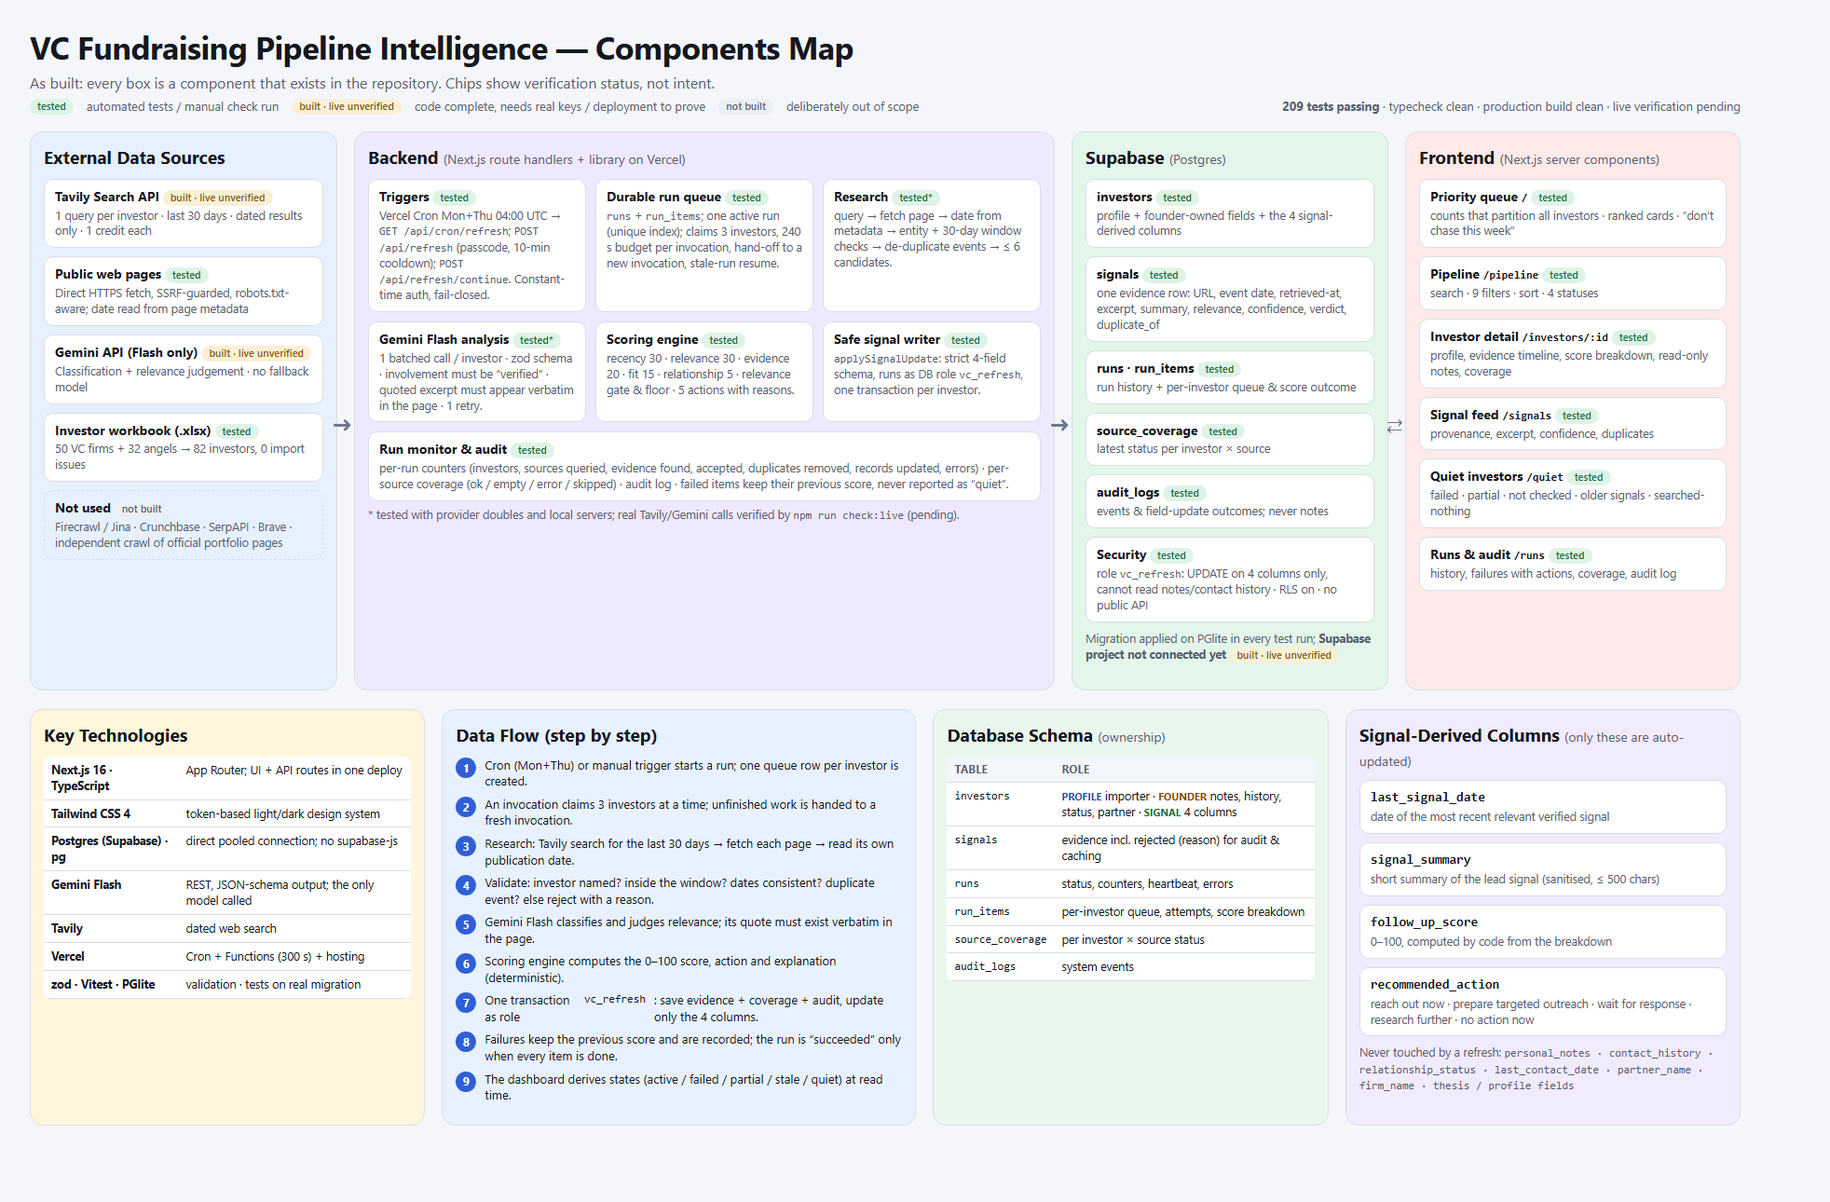
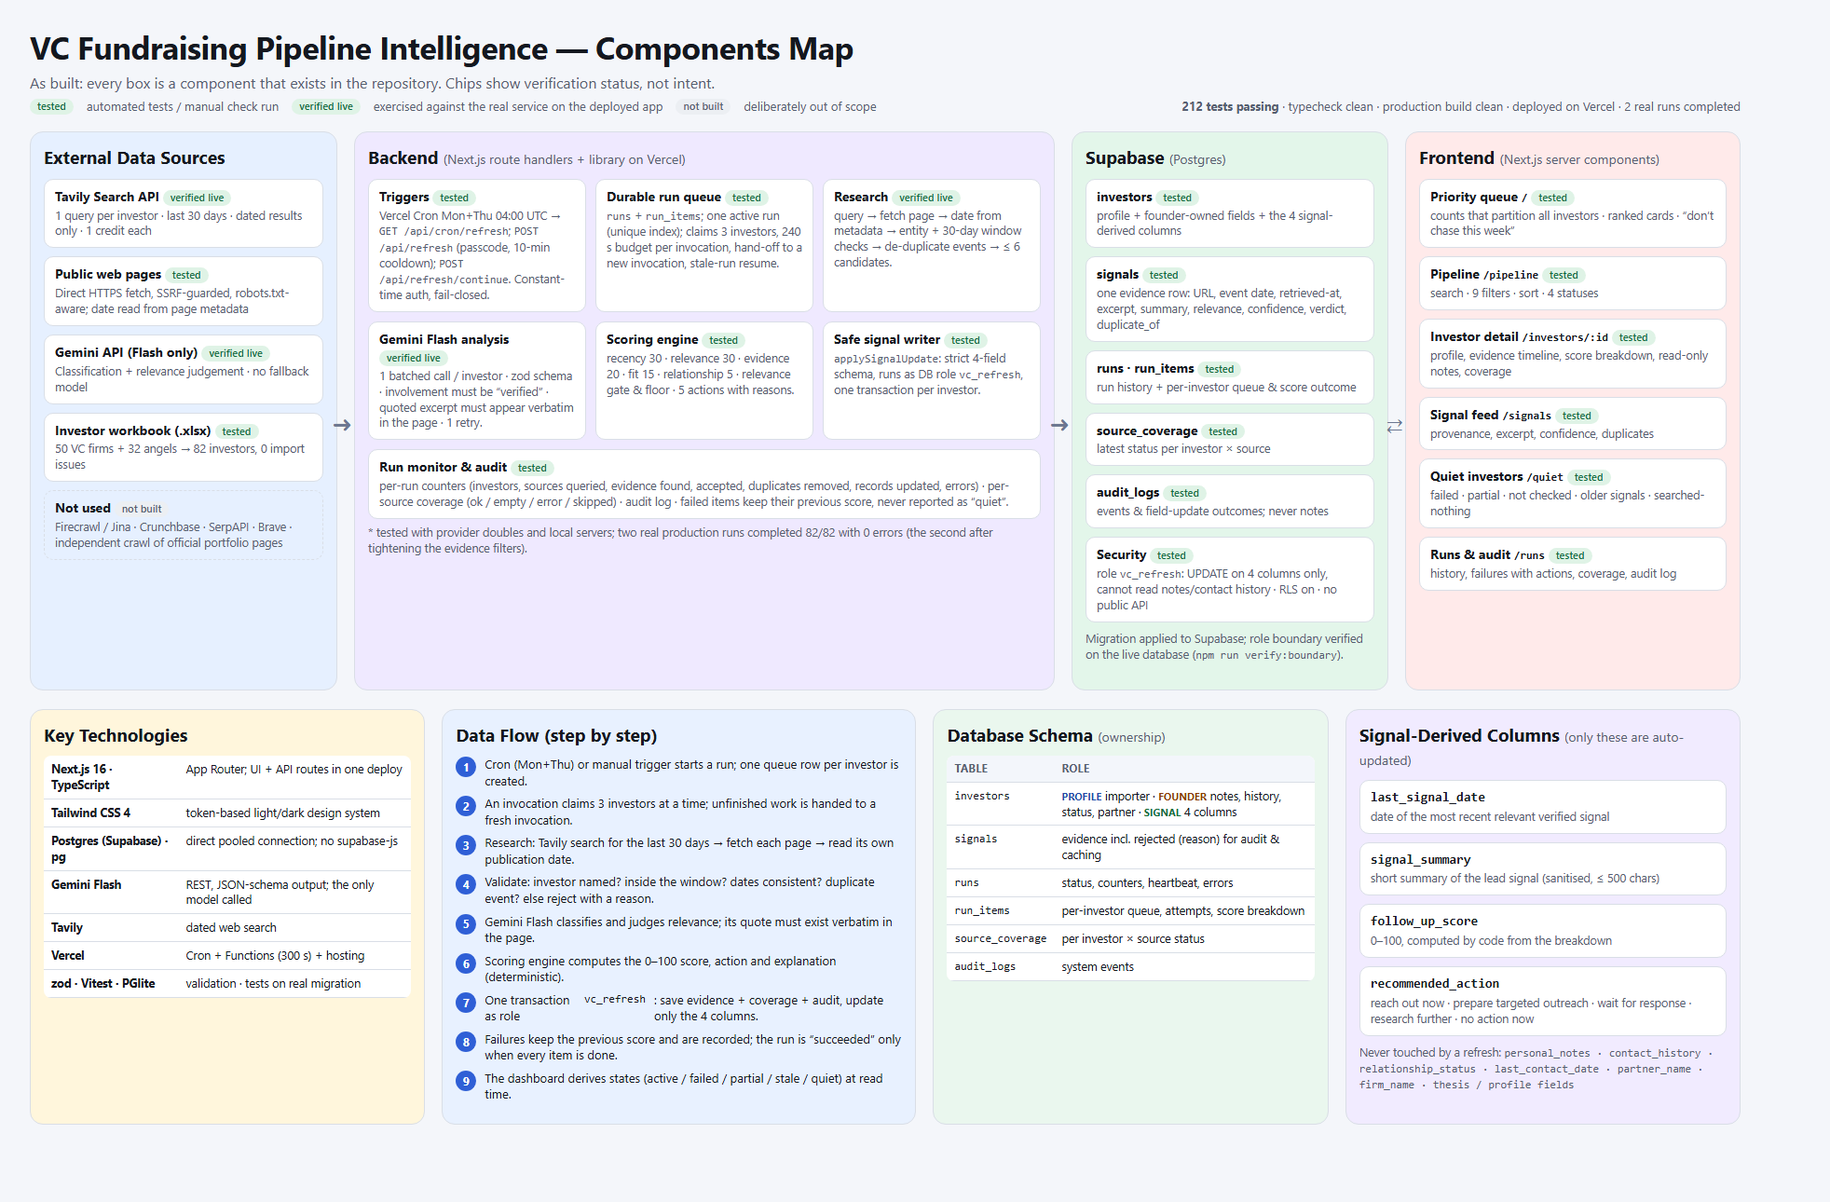
Docs: live verification log, verified statuses, refreshed components map

diff --git a/docs/components-map.html b/docs/components-map.html
@@ -50,18 +50,18 @@
   <p class="sub">As built: every box is a component that exists in the repository. Chips show verification status, not intent.</p>
   <div class="legend">
     <span class="chip t">tested</span> automated tests / manual check run
-    <span class="chip b">built · live unverified</span> code complete, needs real keys / deployment to prove
+    <span class="chip t">verified live</span> exercised against the real service on the deployed app
     <span class="chip n">not built</span> deliberately out of scope
-    <span style="margin-left:auto"><b>209 tests passing</b> · typecheck clean · production build clean · live verification pending</span>
+    <span style="margin-left:auto"><b>212 tests passing</b> · typecheck clean · production build clean · deployed on Vercel · 2 real runs completed</span>
   </div>
 
   <div class="row r1">
     <!-- EXTERNAL -->
     <section class="panel src">
       <h2>External Data Sources</h2>
-      <div class="card"><b>Tavily Search API <span class="chip b">built · live unverified</span></b><p>1 query per investor · last 30 days · dated results only · 1 credit each</p></div>
+      <div class="card"><b>Tavily Search API <span class="chip t">verified live</span></b><p>1 query per investor · last 30 days · dated results only · 1 credit each</p></div>
       <div class="card"><b>Public web pages <span class="chip t">tested</span></b><p>Direct HTTPS fetch, SSRF-guarded, robots.txt-aware; date read from page metadata</p></div>
-      <div class="card"><b>Gemini API (Flash only) <span class="chip b">built · live unverified</span></b><p>Classification + relevance judgement · no fallback model</p></div>
+      <div class="card"><b>Gemini API (Flash only) <span class="chip t">verified live</span></b><p>Classification + relevance judgement · no fallback model</p></div>
       <div class="card"><b>Investor workbook (.xlsx) <span class="chip t">tested</span></b><p>50 VC firms + 32 angels → 82 investors, 0 import issues</p></div>
       <div class="card dashed"><b>Not used <span class="chip n">not built</span></b><p>Firecrawl / Jina · Crunchbase · SerpAPI · Brave · independent crawl of official portfolio pages</p></div>
       <span class="arrow">➜</span>
@@ -73,13 +73,13 @@
       <div class="grid2">
         <div class="card"><b>Triggers <span class="chip t">tested</span></b><p>Vercel Cron Mon+Thu 04:00 UTC → <span class="mono">GET /api/cron/refresh</span>; <span class="mono">POST /api/refresh</span> (passcode, 10-min cooldown); <span class="mono">POST /api/refresh/continue</span>. Constant-time auth, fail-closed.</p></div>
         <div class="card"><b>Durable run queue <span class="chip t">tested</span></b><p><span class="mono">runs</span> + <span class="mono">run_items</span>; one active run (unique index); claims 3 investors, 240 s budget per invocation, hand-off to a new invocation, stale-run resume.</p></div>
-        <div class="card"><b>Research <span class="chip t">tested*</span></b><p>query → fetch page → date from metadata → entity + 30-day window checks → de-duplicate events → ≤ 6 candidates.</p></div>
-        <div class="card"><b>Gemini Flash analysis <span class="chip t">tested*</span></b><p>1 batched call / investor · zod schema · involvement must be “verified” · quoted excerpt must appear verbatim in the page · 1 retry.</p></div>
+        <div class="card"><b>Research <span class="chip t">verified live</span></b><p>query → fetch page → date from metadata → entity + 30-day window checks → de-duplicate events → ≤ 6 candidates.</p></div>
+        <div class="card"><b>Gemini Flash analysis <span class="chip t">verified live</span></b><p>1 batched call / investor · zod schema · involvement must be “verified” · quoted excerpt must appear verbatim in the page · 1 retry.</p></div>
         <div class="card"><b>Scoring engine <span class="chip t">tested</span></b><p>recency 30 · relevance 30 · evidence 20 · fit 15 · relationship 5 · relevance gate &amp; floor · 5 actions with reasons.</p></div>
         <div class="card"><b>Safe signal writer <span class="chip t">tested</span></b><p><span class="mono">applySignalUpdate</span>: strict 4-field schema, runs as DB role <span class="mono">vc_refresh</span>, one transaction per investor.</p></div>
         <div class="card" style="grid-column:span 3"><b>Run monitor &amp; audit <span class="chip t">tested</span></b><p>per-run counters (investors, sources queried, evidence found, accepted, duplicates removed, records updated, errors) · per-source coverage (ok / empty / error / skipped) · audit log · failed items keep their previous score, never reported as “quiet”.</p></div>
       </div>
-      <p class="foot">* tested with provider doubles and local servers; real Tavily/Gemini calls verified by <span class="mono">npm run check:live</span> (pending).</p>
+      <p class="foot">* tested with provider doubles and local servers; two real production runs completed 82/82 with 0 errors (the second after tightening the evidence filters).</p>
       <span class="arrow">➜</span>
     </section>
 
@@ -92,7 +92,7 @@
       <div class="card"><b>source_coverage <span class="chip t">tested</span></b><p>latest status per investor × source</p></div>
       <div class="card"><b>audit_logs <span class="chip t">tested</span></b><p>events &amp; field-update outcomes; never notes</p></div>
       <div class="card"><b>Security <span class="chip t">tested</span></b><p>role <span class="mono">vc_refresh</span>: UPDATE on 4 columns only, cannot read notes/contact history · RLS on · no public API</p></div>
-      <p class="foot">Migration applied on PGlite in every test run; <b>Supabase project not connected yet</b> <span class="chip b">built · live unverified</span></p>
+      <p class="foot">Migration applied to Supabase; role boundary verified on the live database (<span class="mono">npm run verify:boundary</span>).</p>
       <span class="arrow">⇄</span>
     </section>
 

diff --git a/docs/SUBMISSION-CHECKLIST.md b/docs/SUBMISSION-CHECKLIST.md
@@ -9,10 +9,10 @@ Legend: **[x] Tested** = an automated test or a manual check was actually run ·
 
 | Component | Weight | Where | Status |
 |---|---|---|---|
-| Components Map | 10% | `docs/components-map.png` / `.html` (only components that exist; status chips) | [x] — chips to be flipped to "verified" after live run |
-| Working Vercel link | 10% | https://vc-pipeline-intelligence.vercel.app | [~] deployed & healthy; **shows a setup error until `DATABASE_URL` (Supabase) is added** |
+| Components Map | 10% | `docs/components-map.png` / `.html` (only components that exist; status chips) | [x] status chips reflect live verification |
+| Working Vercel link | 10% | https://vc-pipeline-intelligence.vercel.app | [x] live, connected to Supabase, populated by real refreshes |
 | Design | 10% | 6 pages, token-based light/dark system, responsive, loading/empty/error states | [x] checked in browser at desktop and 375 px |
-| Backend logic & build quality | 25% | `src/lib/**`, `supabase/migrations`, 209 tests | [x] logic · [~] live providers unverified |
+| Backend logic & build quality | 25% | `src/lib/**`, `supabase/migrations`, 212 tests | [x] incl. live run + live boundary check |
 | Demo video | 5% | script in `docs/DEMO.md` | [ ] recording is yours |
 | Viva (40%) | — | `docs/VIVA.md` | prep done |
 
@@ -20,19 +20,19 @@ Legend: **[x] Tested** = an automated test or a manual check was actually run ·
 
 | # | Requirement | Status | Evidence / what is missing |
 |---|---|---|---|
-| 1 | Find observable investor signals from the previous 30 days | [~] | Pipeline built and tested with provider doubles (`tests/refresh.test.ts`). **Not yet run against live Tavily/Gemini** — run `npm run check:live`, then one real refresh. |
-| 2 | Public activity categories (articles, interviews/podcasts, portfolio investments, statements, events, thesis announcements) | [~] | Seven categories in schema + Gemini classification schema; classification quality unverified live. |
+| 1 | Find observable investor signals from the previous 30 days | [x] | Two real production runs (82/82, 0 errors). Run 2: 65 verified signals, e.g. Avaana Capital led Drivn's Rs 45 Cr seed (21 Sep), Prime Venture Partners "Seed Plus" (7 Oct), Peak XV raised its Surge seed cap to $5M. |
+| 2 | Public activity categories (articles, interviews/podcasts, portfolio investments, statements, events, thesis announcements) | [x] | All seven categories in schema; the live run produced portfolio investments, fund/thesis announcements, articles, interviews/podcasts and event appearances. |
 | 3 | Explain why a signal makes an investor relevant | [x] | `signals.relevance_explanation` (validated, sanitised) shown on cards; tested. |
 | 4 | Recommend who to contact now and why | [x] | Deterministic score + action + explanation (`tests/scoring.test.ts`, 22 cases); UI verified in browser on fixture data. |
 | 5 | Include investors with no verified signals | [x] | `/quiet` lists all, grouped into 5 states; partition of the 82 asserted in `tests/read.test.ts`; UI verified. |
-| 6 | Refresh twice weekly | [~] | `vercel.json` cron `0 4 * * 1,4`, test keeps dashboard schedule in step. **Not yet running on Vercel.** |
-| 7 | Keep Supabase data up to date on every run | [~] | Same SQL runs on PGlite in tests. **Supabase project not connected yet** (needs `DATABASE_URL`). |
+| 6 | Refresh twice weekly | [~] | `vercel.json` cron `0 4 * * 1,4` is deployed; the refresh path itself was proven live via the manual trigger (same code, chained across invocations). **First scheduled firing is Mon 12 Oct 04:00 UTC and has not been observed yet.** |
+| 7 | Keep Supabase data up to date on every run | [x] | Live runs write signals, coverage, audit and the four columns to Supabase (82 records updated per run). |
 | 8 | Preserve manual notes and contact history | [x] | Whole-row snapshot tests across success, repeat, partial failure; DB role cannot read them. |
-| 9 | Update only the four permitted columns | [x] | zod allowlist + `vc_refresh` role (`tests/db.roles.test.ts`: 13 cases) + snapshot tests. |
-| 10 | Use live external data wherever possible | [~] | Tavily + direct page fetch implemented. Live verification pending. Official-site crawling **not implemented**. |
-| 11 | Gemini Flash for all AI; no Claude API | [~] | Only `src/lib/ai/gemini.ts` calls a model; no fallback by design (tested: 500s → typed error, requests only ever to `generativelanguage.googleapis.com`). Live call pending. |
-| 12 | Deploy on Vercel | [ ] | Config ready (`vercel.json`, env docs). Needs your Vercel project + env vars + approval. |
-| 13 | Public URL · GitHub repo · Components Map | [ ] URL · [ ] repo · [~] map | Map is at `docs/components-map.html`; repo not pushed; URL not deployed. |
+| 9 | Update only the four permitted columns | [x] | zod allowlist + `vc_refresh` role (`tests/db.roles.test.ts`: 13 cases) + snapshot tests + `npm run verify:boundary` against live Supabase (notes/status writes and reads denied by the database). |
+| 10 | Use live external data wherever possible | [x] | Live Tavily search + live page fetch with page-metadata dates. Official-site crawling **not implemented** (limitation). |
+| 11 | Gemini Flash for all AI; no Claude API | [x] | Only `src/lib/ai/gemini.ts` calls a model (`gemini-3.6-flash`, confirmed to exist by `check:live`); no fallback by design. Live structured output works; validators caught 3 fabricated quotes across the two runs. |
+| 12 | Deploy on Vercel | [x] | https://vc-pipeline-intelligence.vercel.app (all five configuration checks green at `/api/health`). |
+| 13 | Public URL · GitHub repo · Components Map | [x] | URL above · https://github.com/sisonpiy-droid/vc-pipeline-intelligence · `docs/components-map.png`. |
 
 ## Build-prompt deliverables
 
@@ -47,7 +47,7 @@ Legend: **[x] Tested** = an automated test or a manual check was actually run ·
 | Safe signal-only updates | [x] |
 | Scheduled + manual refresh | [x] logic & auth tested (22 API tests); [~] on Vercel |
 | Run monitoring & audit | [x] `/runs`, `audit_logs`, `source_coverage` |
-| Automated tests | [x] **209 passing**, typecheck clean, production build clean |
+| Automated tests | [x] **212 passing**, typecheck clean, production build clean |
 | `.env.example` | [x] |
 | README · API/architecture docs | [x] `README.md`, `docs/ARCHITECTURE.md` |
 | Components Map | [~] reflects only components that exist; live-status badges to be updated after verification |
@@ -56,11 +56,15 @@ Legend: **[x] Tested** = an automated test or a manual check was actually run ·
 | Provider evaluation, cost estimate | [x] `docs/PROVIDERS.md` (some vendor figures are third-party/unverified and labelled) |
 | GitHub-ready repository | [x] local git history with checkpoints; **not pushed** |
 
-## Tests that need live credentials (not run yet)
+## Live verification log (what was actually run)
 
-`npm run check:live` — environment, DB reachable + migrated, Gemini model id exists, Gemini structured output,
-Tavily dated search, SSRF-guarded page fetch + date extraction. Then, after deploy: one real refresh and a look at
-`/runs`, `/signals`, one investor's evidence at its source URL.
+1. `npm run check:live` - all green: DB migrated, Gemini model exists, structured JSON works, Tavily dated search, SSRF-guarded fetch.
+2. Query probe (4 investors x 3 styles): boolean/quoted queries found almost nothing; plain natural-language queries returned on-topic news, so the app uses those.
+3. **Run 1 on production** (manual trigger, chained invocations): 82/82, 0 errors, ~9.5 min, 104 verified signals. Review showed evergreen profiles and an IPO shareholder list ranked as "signals".
+4. Fix: `specific_recent_event` field, stricter involvement/portfolio definitions in the prompt, profile/directory URL filter (+3 tests).
+5. **Run 2 on production** (after clearing derived evidence only): 82/82, 0 errors, 65 verified signals; 28 profile pages and 7 non-events rejected. Top results are real, checkable events.
+6. `npm run verify:boundary` against live Supabase: all denials/permissions as designed.
+7. Still unobserved: the **scheduled** cron firing (first due Mon 12 Oct 04:00 UTC).
 
 ## Known limitations
 

diff --git a/docs/PROVIDERS.md b/docs/PROVIDERS.md
@@ -7,7 +7,7 @@ Anything else is labelled as an assumption. Prices and free tiers change — re-
 
 | Provider | Verdict | What I verified |
 |---|---|---|
-| **Tavily** — *integrated (primary)* | essential | `POST https://api.tavily.com/search`, `Authorization: Bearer`. Supports `start_date`/`end_date`, `include_published_date`, `filter_by_published_date` (drops undated results — exactly what a 30-day window needs), `max_results` ≤ 20. `basic` search = **1 credit**, `advanced` = 2. Errors: 401 key, 429 (optional `Retry-After`), **432/433 plan or PAYG limit**, 500. Docs state `published_date` is an *estimate* and may be later than the real date — hence the app prefers the page's own metadata and caps confidence when only the estimate exists. Free "Researcher" plan: reported as **1,000 credits/month** (third-party sources; confirm in the Tavily dashboard). Docs give no RPM figure; dev keys reportedly ~100 RPM. |
+| **Tavily** — *integrated (primary)* | essential | `POST https://api.tavily.com/search`, `Authorization: Bearer`. Supports `start_date`/`end_date`, `include_published_date`, `filter_by_published_date` (drops undated results — exactly what a 30-day window needs), `max_results` ≤ 20. `basic` search = **1 credit**, `advanced` = 2. Errors: 401 key, 429 (optional `Retry-After`), **432/433 plan or PAYG limit**, 500. Docs state `published_date` is an *estimate* and may be later than the real date — hence the app prefers the page's own metadata and caps confidence when only the estimate exists. **Live finding:** Tavily is a semantic engine. Quoted names plus boolean `OR` chains returned almost nothing, while a plain "<name> investment announcement" returned on-topic news; the app uses the plain form. Free "Researcher" plan: reported as **1,000 credits/month** (third-party sources; confirm in the Tavily dashboard). Docs give no RPM figure; dev keys reportedly ~100 RPM. |
 | Brave Search API — *not integrated* | optional fallback | Free-tier status is **contradictory across sources** (a free plan, $5/month credit, or none). Would sit behind the same `SearchProvider` interface; not worth integrating without a key and a confirmed free tier. |
 | SerpAPI / Google Custom Search — *not integrated* | not needed | Not evaluated in depth. Google CSE availability to new projects is restricted and it returns no reliable publication date. |
 | Direct official sites | partially | Official domains get higher de-duplication authority when they appear in results. **Not crawled independently** (see README limitations). |

diff --git a/README.md b/README.md
@@ -7,9 +7,9 @@ Built for Vikram: a first-time founder raising a **Seed** round for a **B2B logi
 verifies each piece of evidence, scores every investor with a fixed explainable formula, and ranks who to approach —
 without ever overwriting the founder's own notes, contact history or relationship status.
 
-> **Status honesty.** Everything below is marked **Tested** (automated test or manual check actually run),
-> **Built, not yet verified live** (code complete, needs real API keys / deployment to prove), or **Not built**.
-> See [docs/SUBMISSION-CHECKLIST.md](docs/SUBMISSION-CHECKLIST.md) for the full list.
+> **Status.** Deployed and verified live: two real production refreshes completed 82/82 with 0 errors, and the
+> data-safety boundary was verified on the real Supabase database. Not yet observed: the first *scheduled* cron firing
+> (Mon 12 Oct 04:00 UTC). See [docs/SUBMISSION-CHECKLIST.md](docs/SUBMISSION-CHECKLIST.md) for the full log.
 
 **Live:** https://vc-pipeline-intelligence.vercel.app · **Repo:** https://github.com/sisonpiy-droid/vc-pipeline-intelligence
 
@@ -35,7 +35,7 @@ npm install
 cp .env.example .env            # then set DATABASE_URL=pglite://.data/dev  (in-process Postgres)
 npm run import                  # applies the migration, imports data/india_vc_and_angel_profiles.xlsx (82 investors)
 npm run dev                     # http://localhost:3000
-npm test                        # 209 tests, ~30 s
+npm test                        # 212 tests, ~30 s
 ```
 
 To see a populated dashboard without API keys: `npm run dev:fixture` runs the **real pipeline** over canned
@@ -77,7 +77,7 @@ src/lib/refresh    research → process → durable chunked run lifecycle → fo
 src/lib/read.ts    dashboard read model (state derivation, filters, feeds)
 src/app            pages + /api/cron/refresh · /api/refresh · /api/refresh/continue · /api/health
 supabase/migrations  schema, ownership boundary, least-privilege role, RLS
-tests/             209 tests; the real migration runs on PGlite
+tests/             212 tests; the real migration runs on PGlite
 docs/              architecture, scoring, providers & costs, references, demo, viva, checklist, components map
 ```
 

diff --git a/docs/ARCHITECTURE.md b/docs/ARCHITECTURE.md
@@ -71,7 +71,8 @@ columns only, guarded by `IS DISTINCT FROM` so an unchanged re-import writes not
 | Outside [now−30d, now+1d] ⇒ `out_of_window` / `future_date` | `signals/window.ts` |
 | Investor must be named (whole-word name / alias / founder-entered partner); no fuzzy "stems" | `signals/match.ts` |
 | Same event reported by several sites ⇒ one kept (official source preferred), the rest `duplicate_of` | `signals/dedupe.ts` |
-| Model says `investor_involvement=verified` | `ai/analyze.ts` |
+| Model says `investor_involvement=verified` (acting, not merely listed) **and** `specific_recent_event=true` (not a profile / directory / evergreen page) | `ai/analyze.ts` |
+| Known profile/directory URLs (Crunchbase, Tracxn, LinkedIn, Wikipedia, ...) rejected before any fetch or AI call | `refresh/research.ts` |
 | Quoted `evidence_excerpt` occurs verbatim in the fetched text (whitespace/case/quote-insensitive) | `ai/analyze.ts` |
 | Model output must satisfy the zod schema; one retry with the validation error; then `needs_review` | `ai/analyze.ts` |
 

diff --git a/docs/DEMO.md b/docs/DEMO.md
@@ -1,7 +1,6 @@
 # Demo script & video plan (≈ 6 minutes)
 
-Pre-flight (do once, off camera): live deployment has run at least one **real** refresh (`/runs` shows it), `npm run check:live`
-is green, and you know one investor whose signal you can open at the source URL.
+Pre-flight (do once, off camera): the live deployment has completed real refreshes (`/runs` shows two), and you know one investor whose signal you can open at the source URL.
 
 | t | Show | Say |
 |---|---|---|
